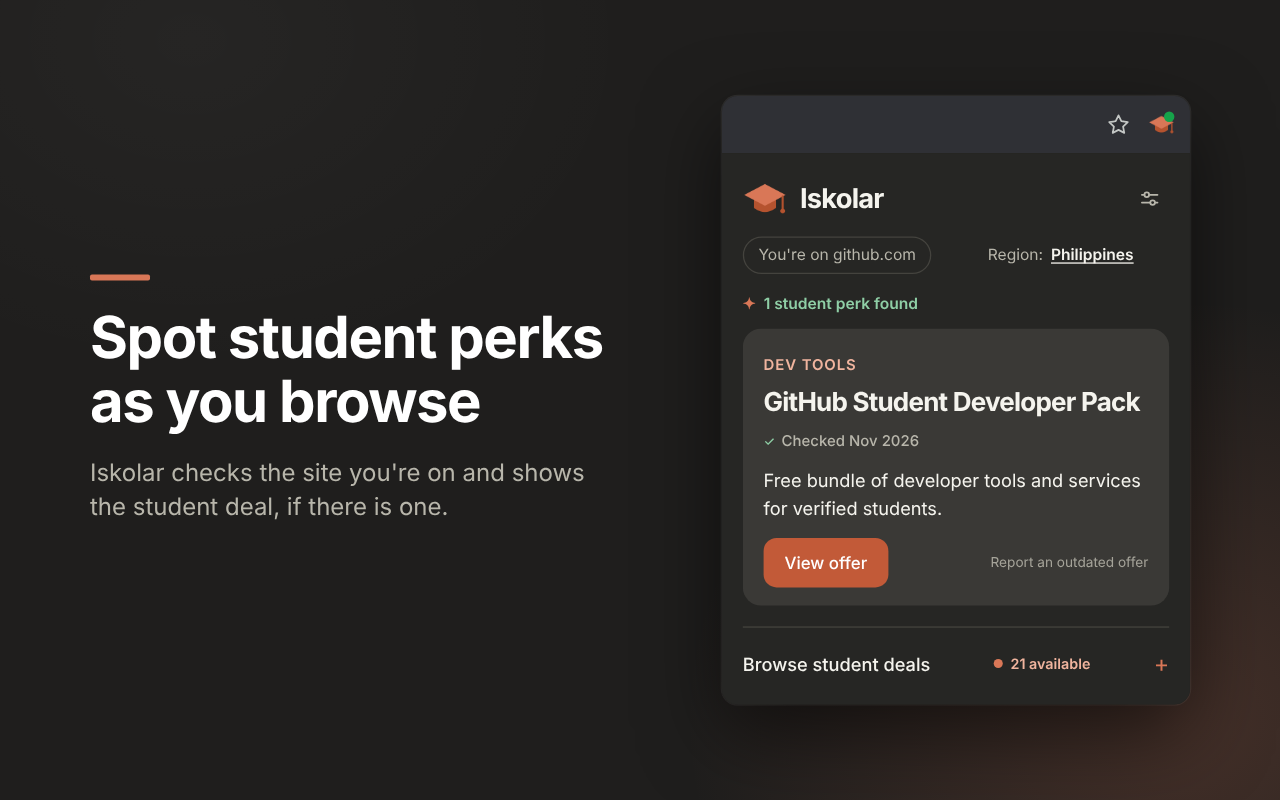
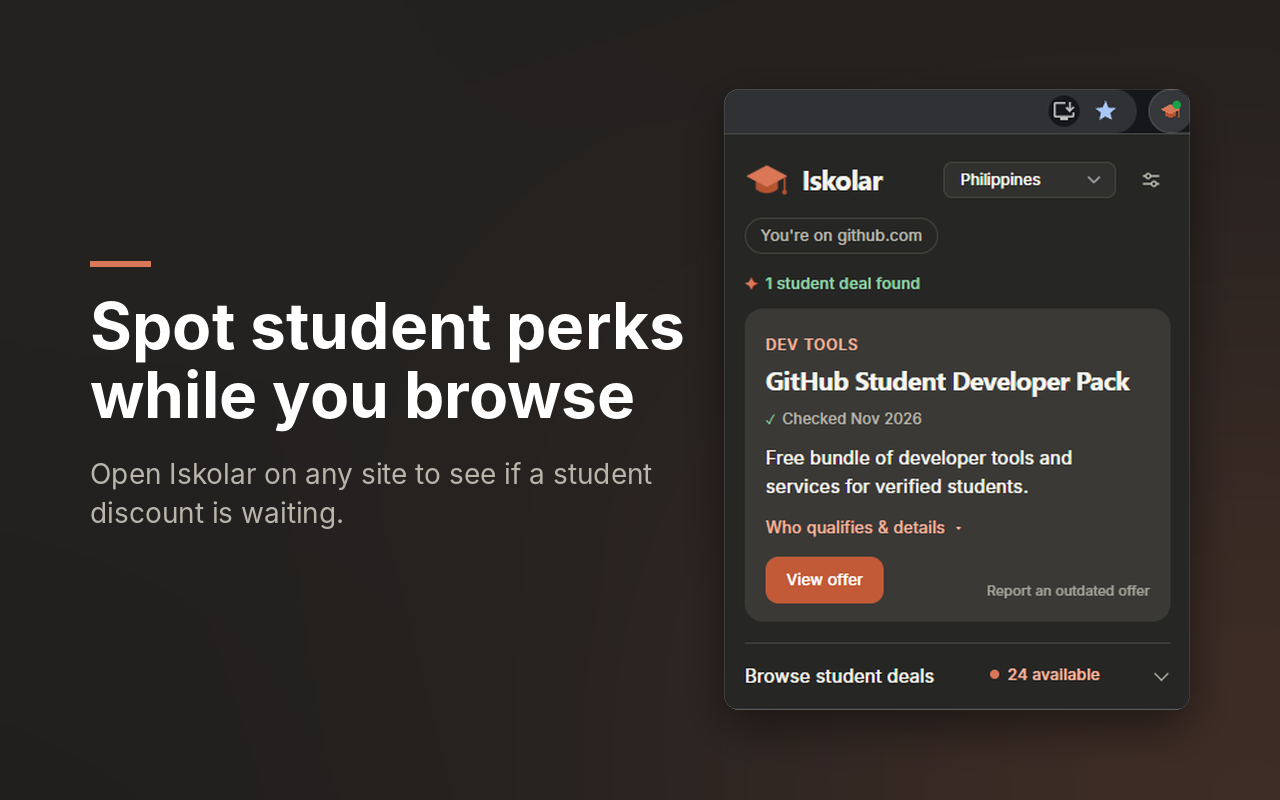
content: update iskolar case study screenshots

diff --git a/iskolar/index.html b/iskolar/index.html
@@ -40,13 +40,12 @@
           <p>Iskolar is built for students in the Philippines first, with global offers included. Click the extension icon on a website and it checks whether a student deal is known for that site, then shows the eligibility requirements, caveats, the last verification month, and a link to the official offer page.</p>
           <p>It is a guide, not a guarantee. Offers change, so every card points back to the provider's own page for the current terms.</p>
         </section>
-        <img class="shot" src="/images/iskolar-badge.png" width="1280" height="800" loading="lazy" alt="Iskolar popup on spotify.com with a green dot on the toolbar icon and the Spotify Premium Student offer expanded to show who qualifies, under the caption A green dot tells you there's a deal.">
+        <img class="shot" src="/images/iskolar-private.png" width="1280" height="800" loading="lazy" alt="Iskolar popup under the caption Private by design.">
         <section>
           <h2>Privacy by design</h2>
           <p>Matching happens in the popup against an offer list that ships with the extension. It asks only for the activeTab permission, opens only HTTPS links, and does not collect browsing history, page content, accounts, or analytics. Theme and footer preferences stay on the device.</p>
         </section>
         <img class="shot" src="/images/iskolar-browse.png" width="1280" height="800" loading="lazy" alt="Iskolar popup listing student deals with a search box, under the caption Browse every student deal.">
-        <img class="shot" src="/images/iskolar-philippines.png" width="1280" height="800" loading="lazy" alt="Iskolar popup on philippineairlines.com showing a 20% off student discount, under the caption Made for students in the Philippines.">
         <section>
           <h2>My role</h2>
           <p>I designed, built, and packaged Iskolar on my own. That covered domain matching against the bundled offers, region filtering for the Philippines and other countries, dark and light themes, a settings panel, and a browsable list of every student deal.</p>
